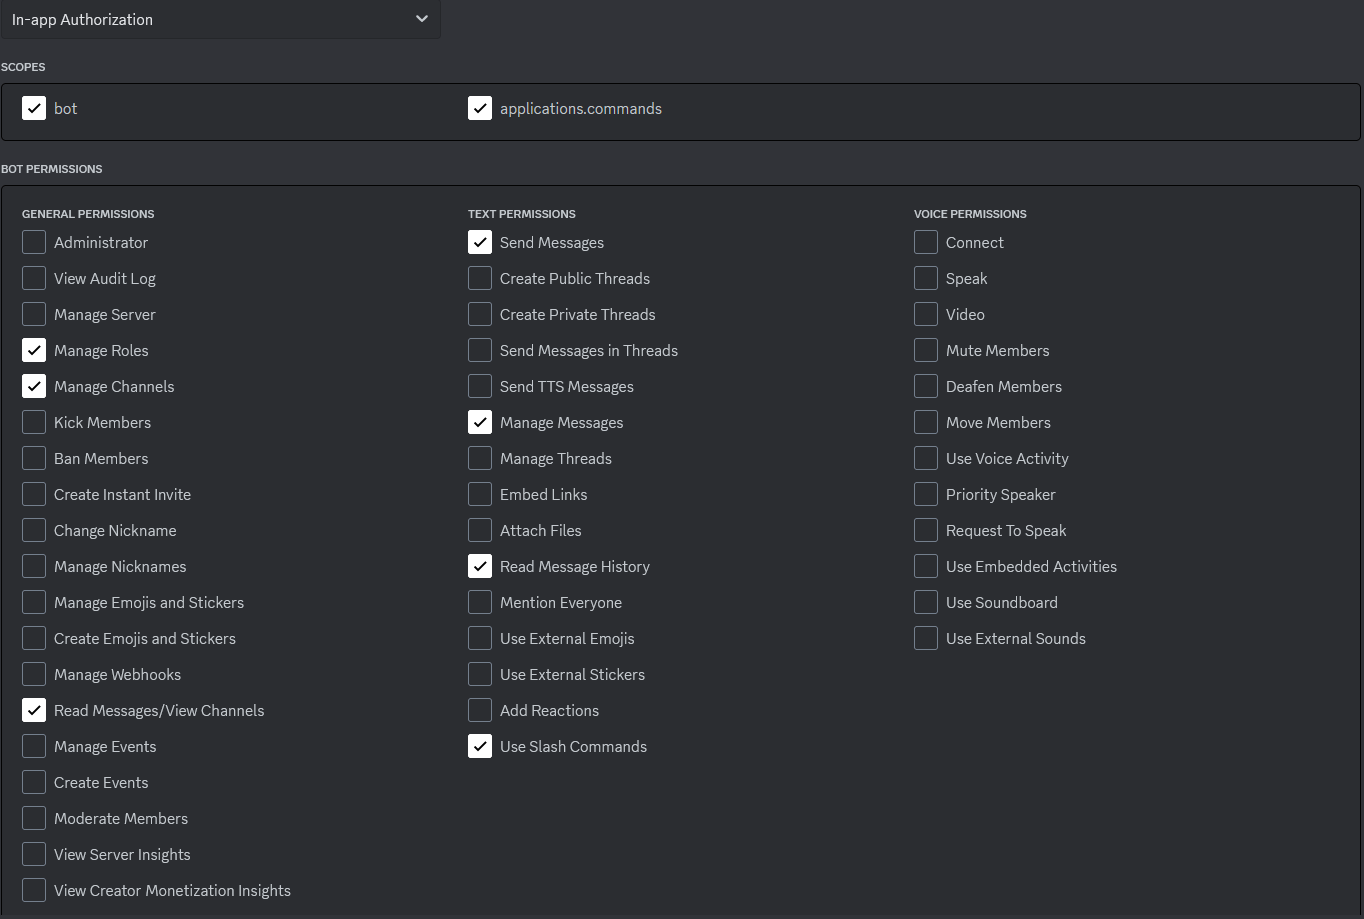
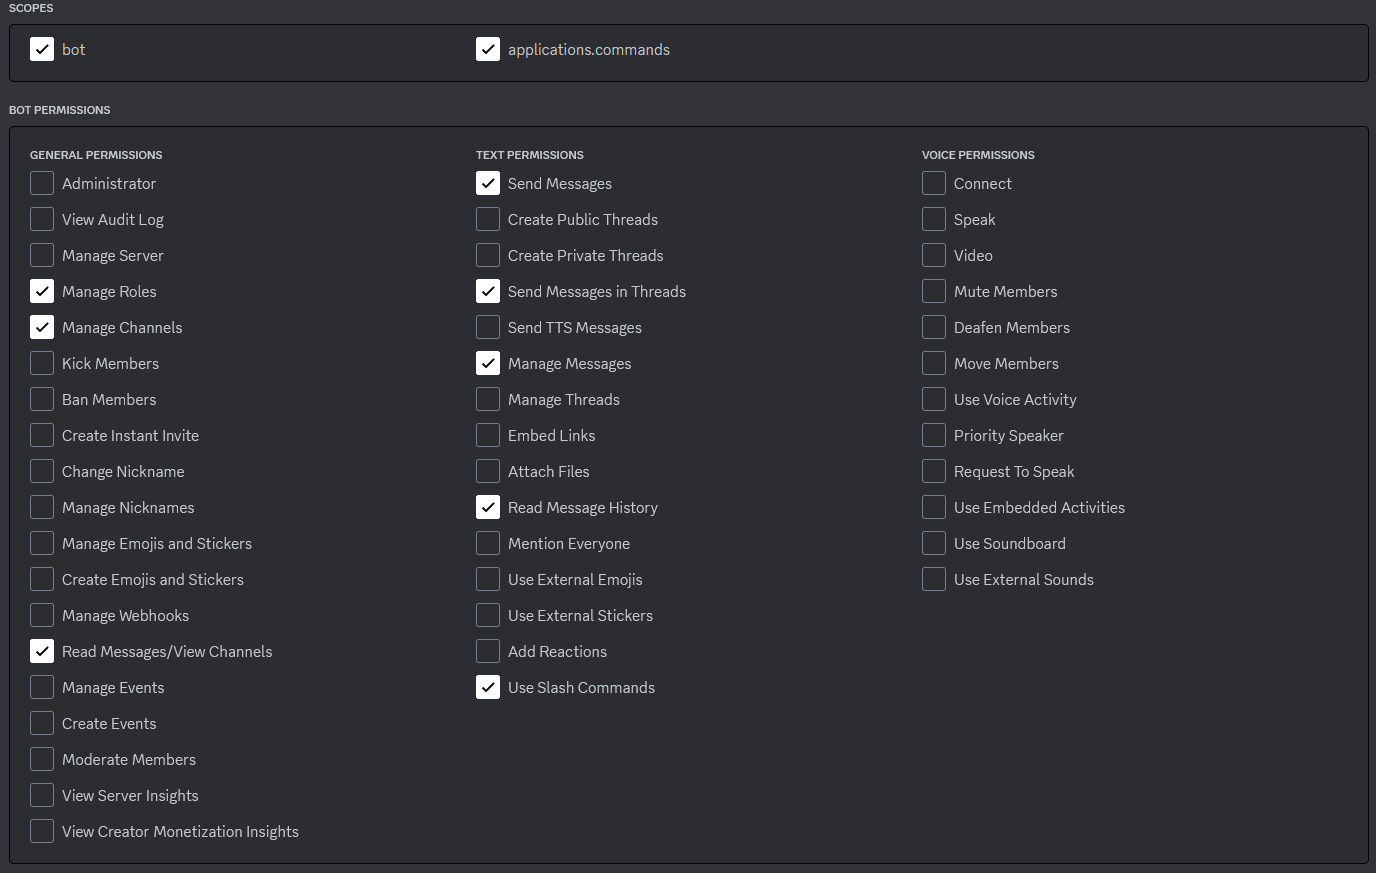
edited readme

diff --git a/README.md b/README.md
@@ -15,6 +15,8 @@ Allow Discord users to connect their Omega Strikers account with Discord by usin
 4. Go to OAuth2 -> General, set "Default Authorization Link" to "In-app Authorization" and select the following:
 ![image1.png](images/image1.PNG)
 5. Go to OAuth2 -> URL Generator, select bot and applications.commands and select under bot permissions everything, which was selected during Step 4.
+![image2.png](images/image2.PNG)
+![image3.png](images/image3.PNG)
 6. At the bottom you can find a generated link which you go to. It will ask, which server you want the bot to connect to and if the permissions are correct.
 7. Copy the .env.sample file, rename it to ".env" and fill out all the Discord connection info as well as the Prometheus Authorization info you find in the there.
 * discordtoken: Back on the Developers page -> Bot -> Token (just below the name). If you've never copied the token before, reset the token and copy it.
